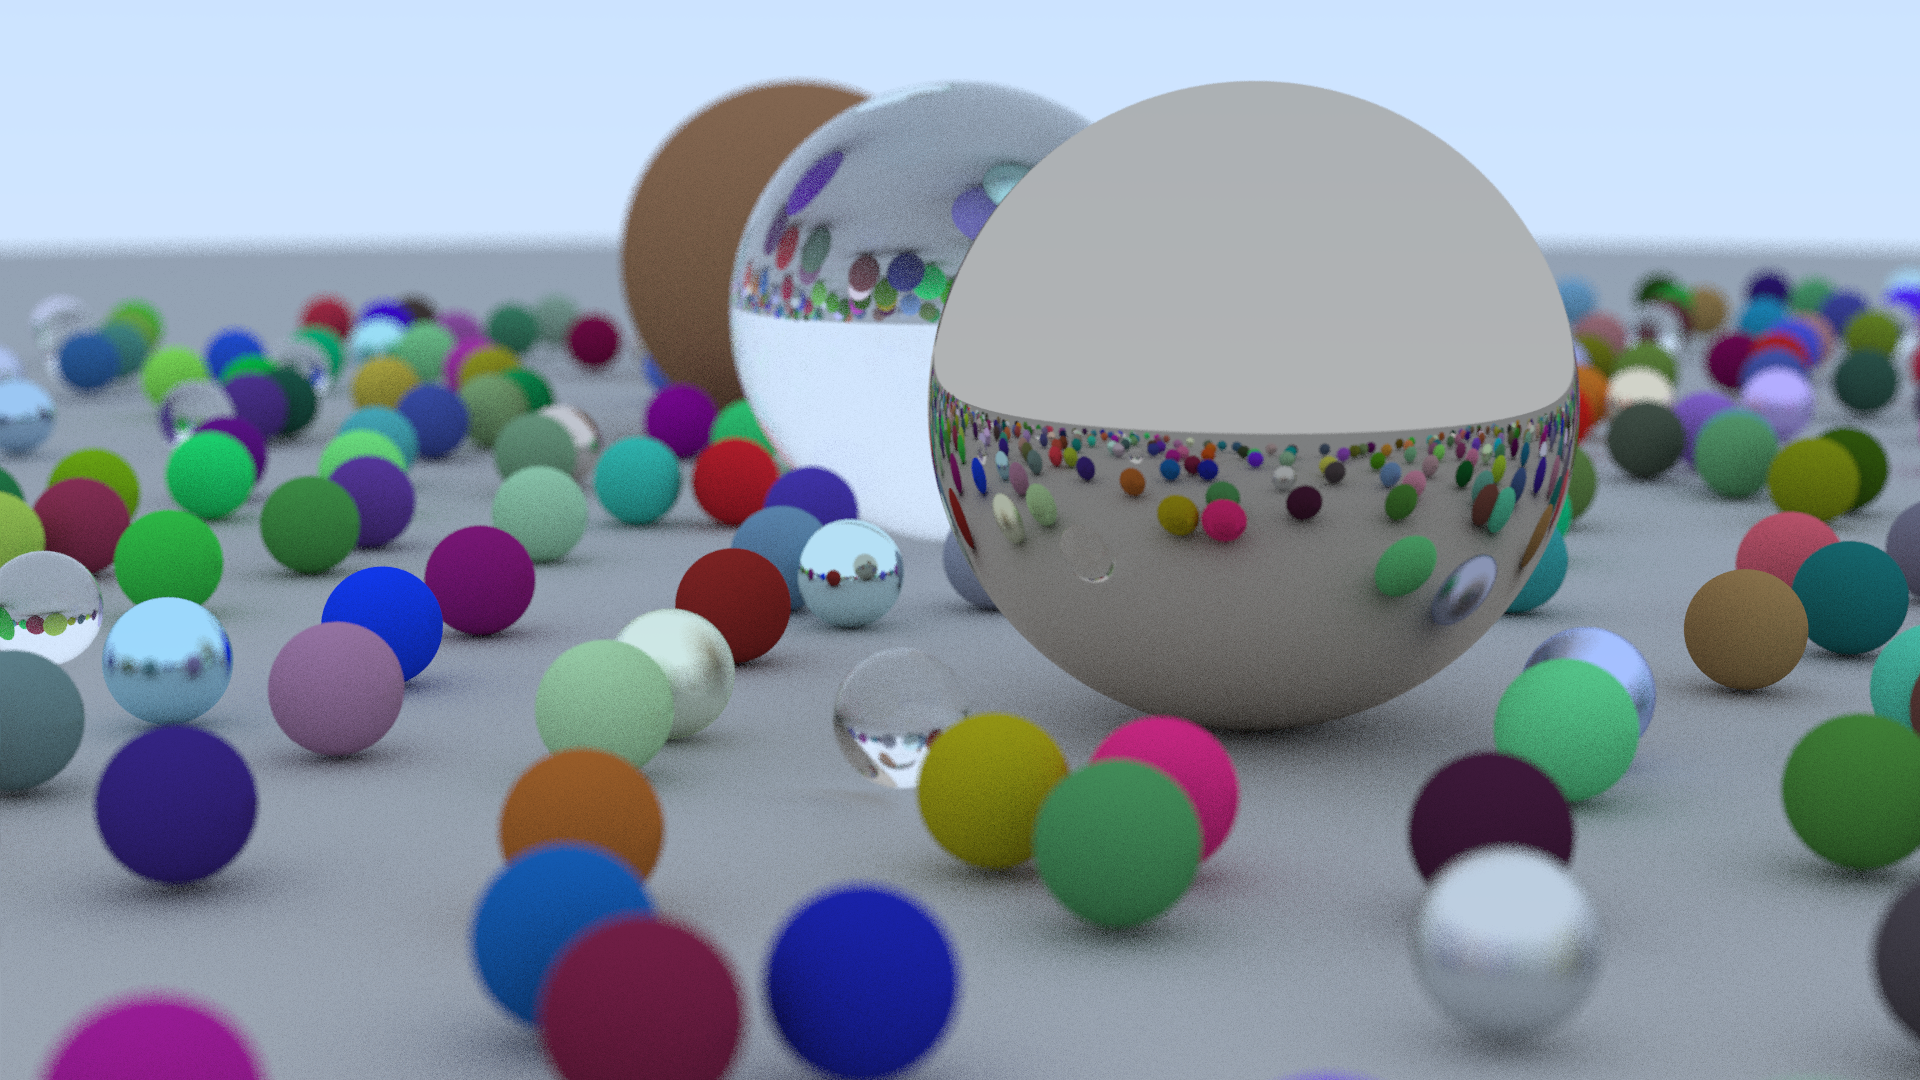
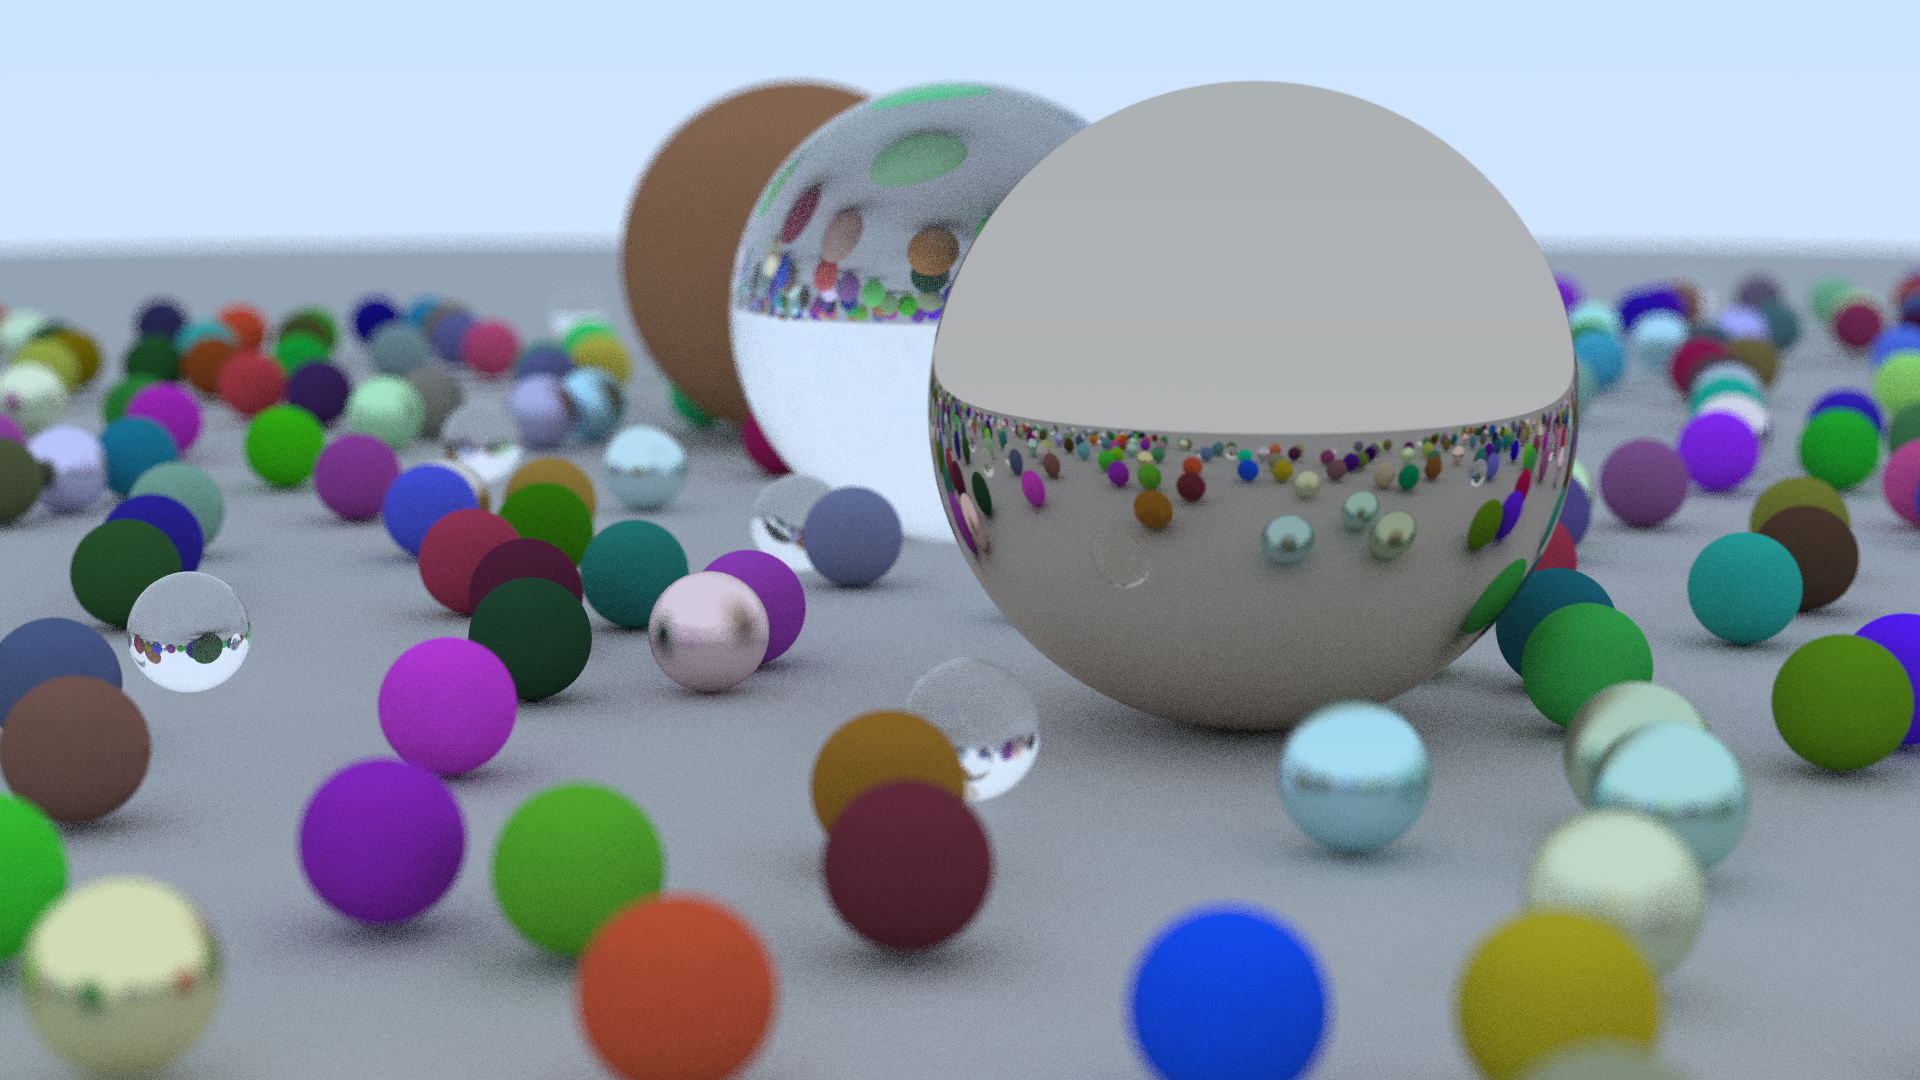
better render

diff --git a/vexray/src/lib.rs b/vexray/src/lib.rs
@@ -46,8 +46,8 @@ fn create_cover_config() -> KernelConfig {
     let render_config = RenderConfig {
         width: 1920,
         height: 1080,
-        samples: 512,
-        bounces: 64,
+        samples: 32,
+        bounces: 8,
     };
 
     let camera_config = CameraConfig {
